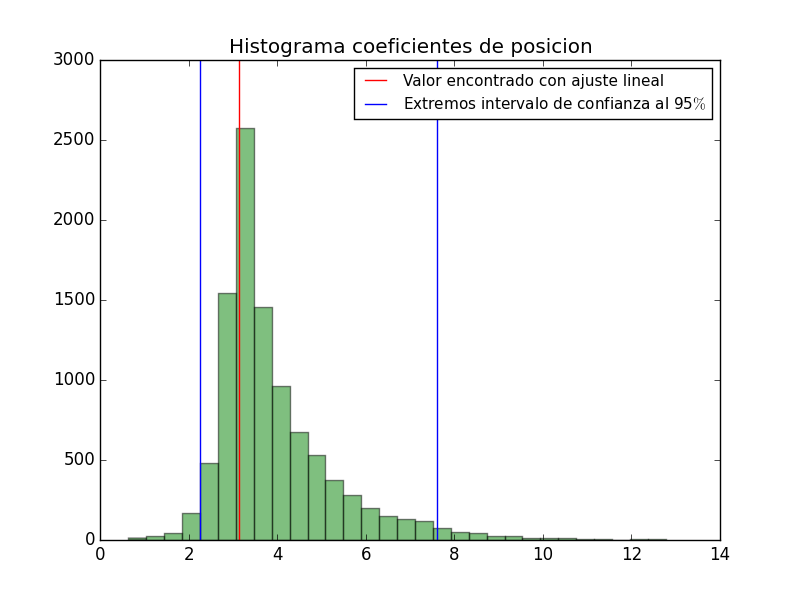
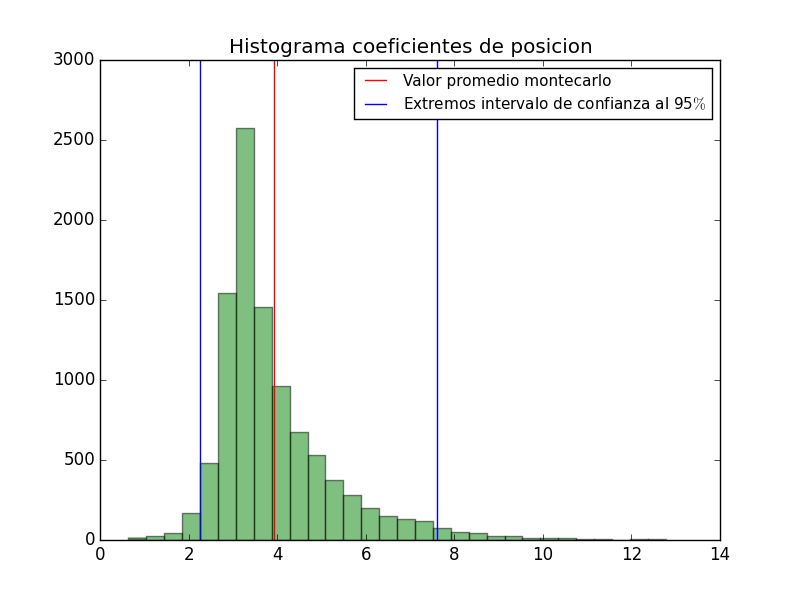
se implementa bisecciion para mezclar ambas soluciones, en vez de sacar el promedio como se tenia

Changed region(s): [[0.2812, 0.12, 0.3125, 0.9], [0.5625, 0.12, 0.8438, 0.15]]

diff --git a/p1.py b/p1.py
@@ -4,6 +4,10 @@ import os
 import matplotlib.pyplot as plt
 
 
+def biseccion(a1, a2):
+    return (a1 * a2 - 1 + np.sqrt((1+a1**2) * (1+a2**2))) / (a1+a2)
+
+
 # importando los datos
 file_path = os.path.join('data', 'hubble_original.dat')
 distancias = np.loadtxt(fname=file_path, usecols=(0,))
@@ -35,7 +39,7 @@ N = len(distancias)
 Nboot = 500
 values_1 = np.zeros(Nboot)
 values_2 = np.zeros(Nboot)
-values_promedio = np.zeros(Nboot)
+values_bis = np.zeros(Nboot)
 
 for i in range(Nboot):
     s = np.random.randint(low=0, high=N, size=N)
@@ -50,20 +54,32 @@ for i in range(Nboot):
         den_2 += velocidades[j] * distancias[j]
     values_1[i] = np.mean(num_1 / den_1)
     values_2[i] = np.mean(num_2 / den_2)
-    values_promedio[i] = (values_1[i] + values_2[i]) * 0.5
+    values_bis[i] = biseccion(values_1[i], values_2[i])
 
-values_ord = np.sort(values_promedio)
+values_ord = np.sort(values_bis)
 limite_bajo = values_ord[int(Nboot * 0.025)]
 limite_alto = values_ord[int(Nboot * 0.975)]
 print "El intervalo de confianza al 95% es: [{}:{}]".format(limite_bajo,
                                                             limite_alto)
-
-
 # plot 1
-fig = plt.figure(1)
-fig.clf()
-plt.hist(values_promedio, bins=50, facecolor='g', alpha=0.5)
-plt.axvline((H0_1+H0_2)*0.5, color='r', label="Mejor valor encontrado")
+x=np.linspace(0,2,100)
+fig1 = plt.figure(1)
+fig1.clf()
+plt.plot(distancias, velocidades, 'o')
+plt.plot(x, x*H0_1, color='r', label="Caso 1")
+plt.plot(x, x*H0_2, color='g', label="Caso 2")
+plt.plot(x, x*np.mean(values_bis), color='y', label="Biseccion")
+plt.legend(loc=2)
+plt.draw()
+plt.show()
+plt.savefig('datos_y_rectas_p1.png')
+
+
+# plot 2
+fig2 = plt.figure(1)
+fig2.clf()
+plt.hist(values_bis, bins=50, facecolor='g', alpha=0.5)
+plt.axvline(biseccion(H0_1, H0_2), color='r', label="Mejor valor encontrado")
 plt.axvline(limite_bajo, color='b',
             label="Extremos intervalo de confianza al 95$\%$")
 plt.axvline(limite_alto, color='b')
@@ -72,6 +88,4 @@ plt.legend(fontsize=11)
 plt.ylim(0, 50)
 plt.draw()
 plt.show()
-plt.savefig('bootstrap_p1.png')
-
-print (H0_1+H0_2)*0.5
+plt.savefig('histograma_p1.png')

diff --git a/p3.py b/p3.py
@@ -44,7 +44,8 @@ print """El intervalo de confianza al
 fig1 = plt.figure(1)
 fig1.clf()
 plt.hist(coefs_posicion, bins=30, facecolor='g', alpha=0.5)
-plt.axvline(b, color='r', label="Valor encontrado con ajuste lineal")
+#plt.axvline(b, color='r', label="Valor encontrado con ajuste lineal")
+plt.axvline(np.mean(coefs_posicion), color='r', label="Valor promedio montecarlo")
 plt.axvline(limite_bajo_2, color='b',
             label="Extremos intervalo de confianza al 95$\%$")
 plt.axvline(limite_alto_2, color='b', linewidth=1)
@@ -58,7 +59,9 @@ plt.savefig('histo_p3_1.png')
 fig2 = plt.figure(2)
 fig2.clf()
 plt.hist(pendientes, bins=30, facecolor='g', alpha=0.5)
-plt.axvline(a, color='r', label="Valor encontrado con ajuste lineal")
+#plt.axvline(a, color='r', label="Valor encontrado con ajuste lineal")
+# esos cambios de # no estan reportados!
+plt.axvline(np.mean(pendientes), color='r', label="Valor promedio montecarlo")
 plt.axvline(limite_bajo_1, color='b',
             label="Extremos intervalo de confianza al 95$\%$")
 plt.axvline(limite_alto_1, color='b')
@@ -75,7 +78,8 @@ fig3 = plt.figure(3)
 fig3.clf()
 plt.errorbar(flujo_i, flujo_z, xerr=error_i, yerr=error_z, fmt="o",
              label="Datos ", color='g', alpha=0.5)
-plt.plot(x, a * x + b, color='r', label="Ajuste lineal")
+#plt.plot(x, a * x + b, color='r', label="Ajuste lineal")
+plt.plot(x, np.mean(pendientes) * x + np.mean(coefs_posicion), color='r', label="Ajuste lineal")
 plt.xlabel("Flujo banda i [$10^{-6}Jy$]")
 plt.ylabel("Flujo banda z [$10^{-6}Jy$]")
 plt.legend(loc=2)
